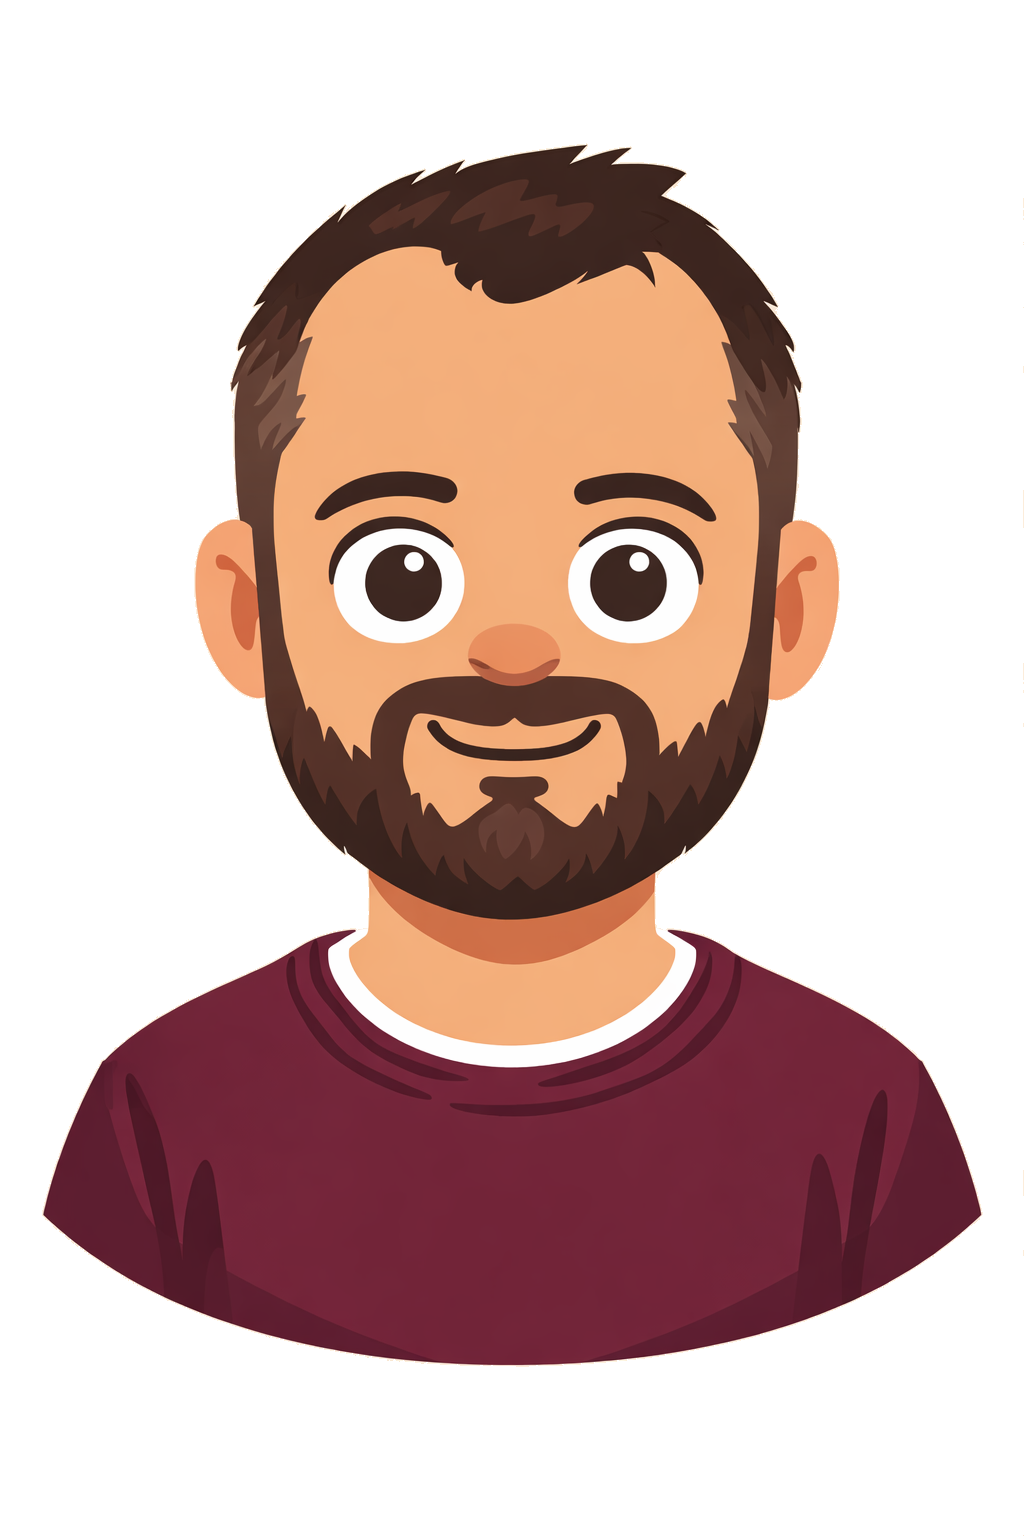
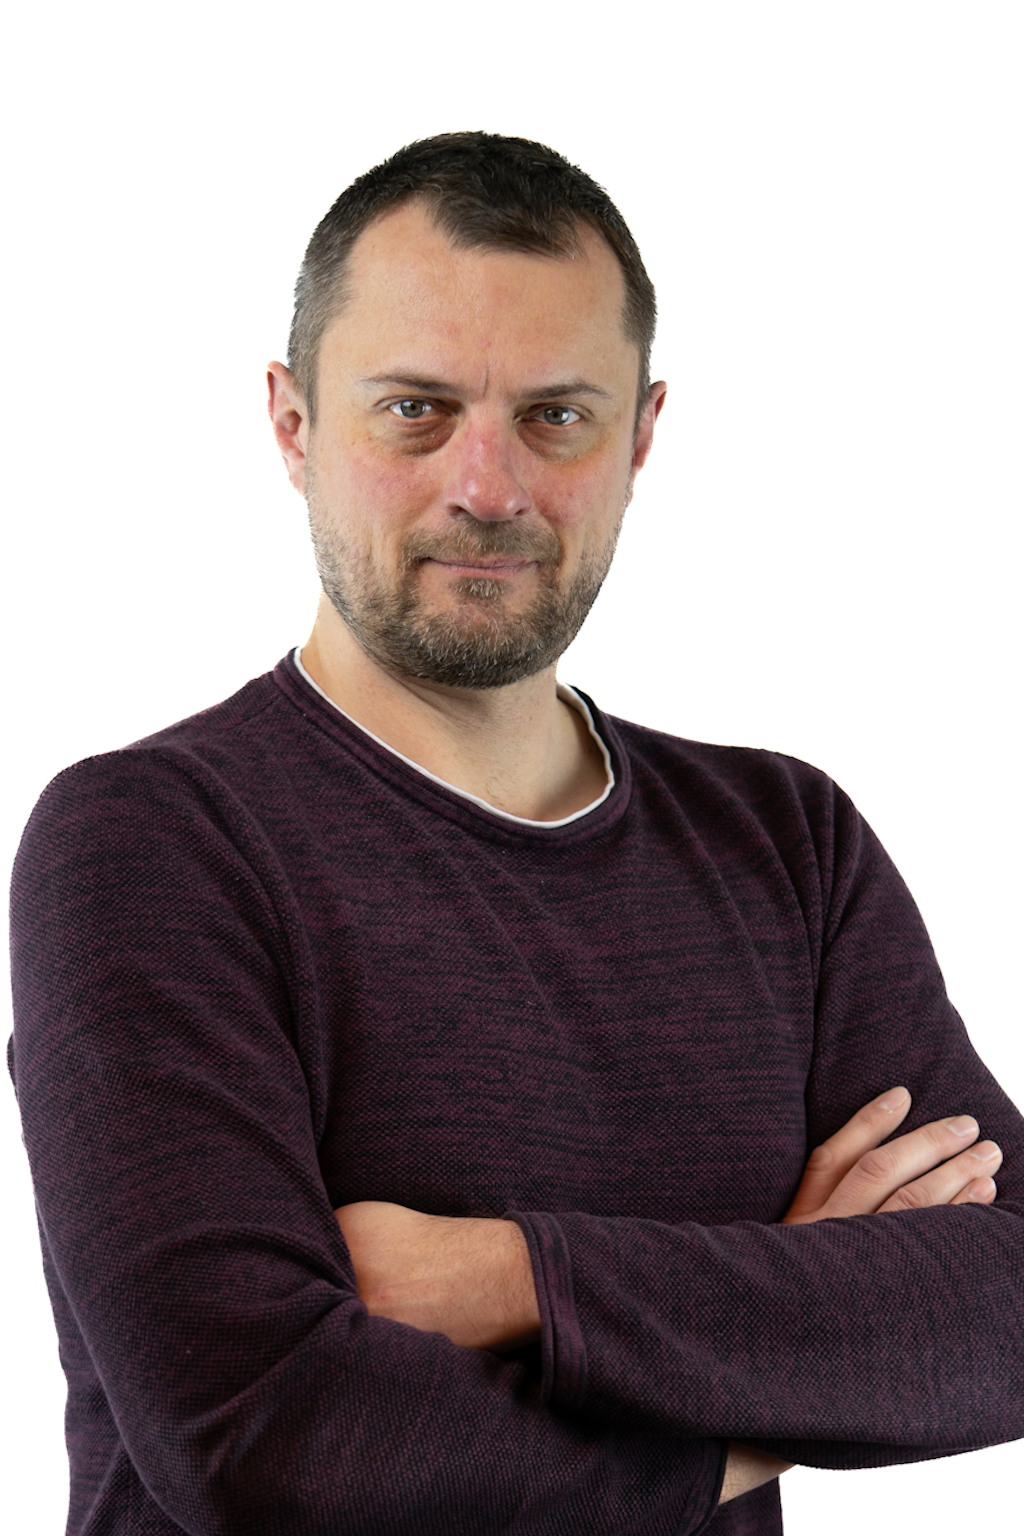
chore: drobné úpravy

diff --git a/v2/script.js b/v2/script.js
@@ -102,6 +102,22 @@ function initCvPage() {
     });
   }
 
+  function isInOrAboveViewport(el) {
+    var rect = el.getBoundingClientRect();
+    if (rect.bottom <= 0) {
+      return true;
+    }
+    return rect.top < (window.innerHeight || document.documentElement.clientHeight) && rect.bottom > 0;
+  }
+
+  function revealVisibleElements() {
+    revealElements.forEach(function (element) {
+      if (!element.classList.contains("is-visible") && isInOrAboveViewport(element)) {
+        element.classList.add("is-visible");
+      }
+    });
+  }
+
   if ("IntersectionObserver" in window) {
     var sectionObserver = new IntersectionObserver(
       function (entries) {
@@ -112,14 +128,17 @@ function initCvPage() {
         });
       },
       {
-        threshold: 0.18,
-        rootMargin: "0px 0px -10% 0px"
+        threshold: 0.01,
+        rootMargin: "0px"
       }
     );
 
     revealElements.forEach(function (element) {
       sectionObserver.observe(element);
     });
+
+    window.addEventListener("load", revealVisibleElements);
+    window.setTimeout(revealVisibleElements, 600);
   } else {
     revealElements.forEach(function (element) {
       element.classList.add("is-visible");

diff --git a/v2/styles.css b/v2/styles.css
@@ -737,6 +737,12 @@ button,
   transform: translateY(0);
 }
 
+html.no-js .reveal {
+  opacity: 1;
+  transform: none;
+  transition: none;
+}
+
 @media (max-width: 1180px) {
   body.is-mobile-nav-open {
     overflow: hidden;
@@ -862,6 +868,10 @@ button,
   margin: 8mm;
 }
 
+.print-url {
+  display: none;
+}
+
 @media print {
   html {
     scroll-behavior: auto;
@@ -872,6 +882,18 @@ button,
     color: #000;
     font-size: 9.4pt;
     line-height: 1.28;
+  }
+
+  .print-url {
+    display: block;
+    position: fixed;
+    top: 0.4cm;
+    right: 0.6cm;
+    font-size: 9pt;
+    font-weight: 600;
+    color: #000;
+    letter-spacing: 0.02em;
+    z-index: 9999;
   }
 
   .mobile-nav-toggle,

diff --git a/index.html b/index.html
@@ -31,6 +31,7 @@
 
 </head>
 <body>
+  <div class="print-url" aria-hidden="true">www.MichalZemek.cz</div>
   <button class="mobile-nav-toggle" id="mobileNavToggle" aria-expanded="false" aria-controls="siteNav" aria-label="Otevřít navigaci">
     <span class="mobile-nav-toggle__icon" aria-hidden="true">
       <span class="mobile-nav-toggle__line"></span>
@@ -137,7 +138,7 @@
             <span class="hero__headline-sub">C#, ASP.NET Core, Blazor</span>
           </h2>
           <p class="hero__lead">
-            Jsem multifunkční člověk ne jen vývojář, neustále se učím a sleduji, co je ve světě nového. Nemám vše v hlavě, ale vím kam se podívat.
+            Jsem multifunkční člověk, ne jen vývojář, neustále se učím a sleduji, co je ve světě nového. Nemám vše v hlavě, ale vím kam se podívat.
             <br> Pro práci používám AI nástroje a neustále hledám jak AI dávat mantinely, ve kterých má pracovat, aby byla co nejpřesnější a nejspolehlivější. 
             <br> Rád pracuji na projektech, které mají smysl a pomáhají lidem, rád komunikuju.
           </p>
@@ -194,7 +195,7 @@
             <div class="experience-card__body">
               <div class="experience-card__meta">září 2022 - září 2023</div>
               <h3>NOTINO s.r.o., AppTime s.r.o., Freelancer</h3>
-              <p class="experience-card__role">Senior AI .NET Developer, Backend</p>
+              <p class="experience-card__role">Senior .NET Developer, Backend</p>
               <ul>
                 <li>Mikroservisní Backend vývoj nových částí finančního a účetního systému.</li>
                 <li>Napojování interních a externích systémů a úpravy Backendových služeb.</li>
@@ -210,7 +211,7 @@
             <div class="experience-card__body">
               <div class="experience-card__meta">2019 - červen 2022</div>
               <h3>Startup - Robolytix a.s., Freelancer </h3>
-              <p class="experience-card__role">Senior AI .NET Developer, Backend &amp; Frontend</p>
+              <p class="experience-card__role">Senior .NET Developer, Backend &amp; Frontend</p>
               <ul>
                 <li>Vývoj systému pro měření firemních procesů v reálném čase.</li>
                 <li>Vývoj Backendu i Frontendu, práce s AZURE infrastrukturou.</li>
@@ -225,7 +226,7 @@
             <div class="experience-card__body">
               <div class="experience-card__meta">2018 - 2019</div>
               <h3>Innovative Business s.r.o., Freelancer </h3>
-              <p class="experience-card__role">AI .NET Developer, Backend &amp; Frontend</p>
+              <p class="experience-card__role">.NET Developer, Backend &amp; Frontend</p>
               <ul>
                 <li>Vývoj lead systému pro obchodníky kogeneračních jednotek.</li>
                 <li>Návrh a napojení na externí API CRM apod.</li>
@@ -237,7 +238,7 @@
             <div class="experience-card__body">
               <div class="experience-card__meta">2012 - 2017</div>
               <h3>BioVavřinec s.r.o., Freelancer </h3>
-              <p class="experience-card__role">AI .NET Developer, Analytik procesů, Backend &amp; Frontend</p>
+              <p class="experience-card__role">.NET Developer, Analytik procesů, Backend &amp; Frontend</p>
               <ul>
                 <li>Vývoj e-shopu a firemního ERP systému pro prodej a výrobu BIO mléčných produktů.</li>
                 <li>Analýza firemních procesů v terénu a jejich převod do aplikace.</li>
@@ -440,7 +441,7 @@
   </div>
 
 
-  <script src="v2/script.js?v=20260309-2"></script>
+  <script src="v2/script.js?v=20260513-1"></script>
 
 
     <!-- Default Statcounter code for https://cv.michalzemek.cz/ https://cv.michalzemek.cz/ -->

diff --git a/pribeh.html b/pribeh.html
@@ -234,7 +234,7 @@
   </div>
 
   <script src="v2/journey.js?v=20260330-17"></script>
-  <script src="v2/script.js?v=20260330-3"></script>
+  <script src="v2/script.js?v=20260513-1"></script>
 
     <!-- Default Statcounter code for https://cv.michalzemek.cz/ https://cv.michalzemek.cz/ -->
     <script>